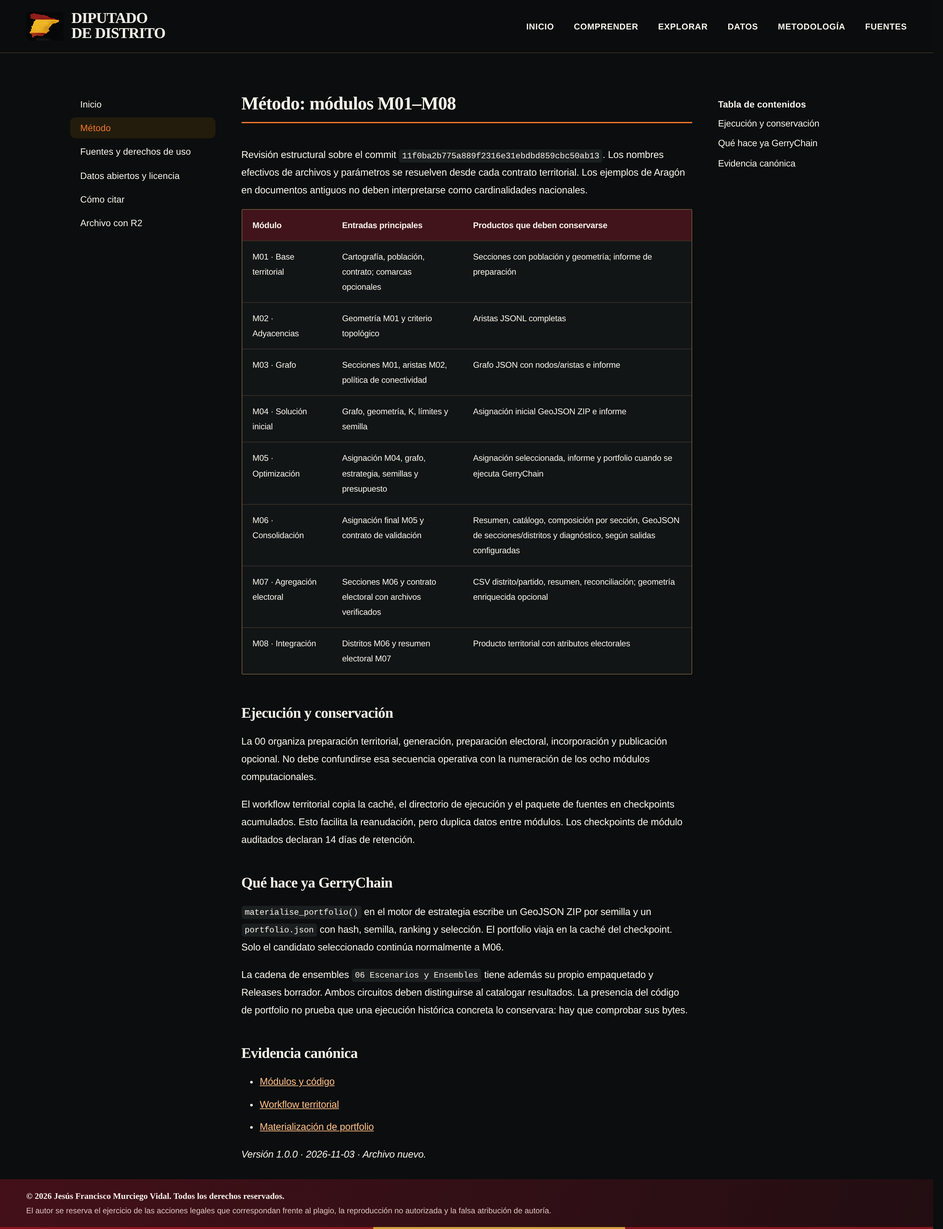
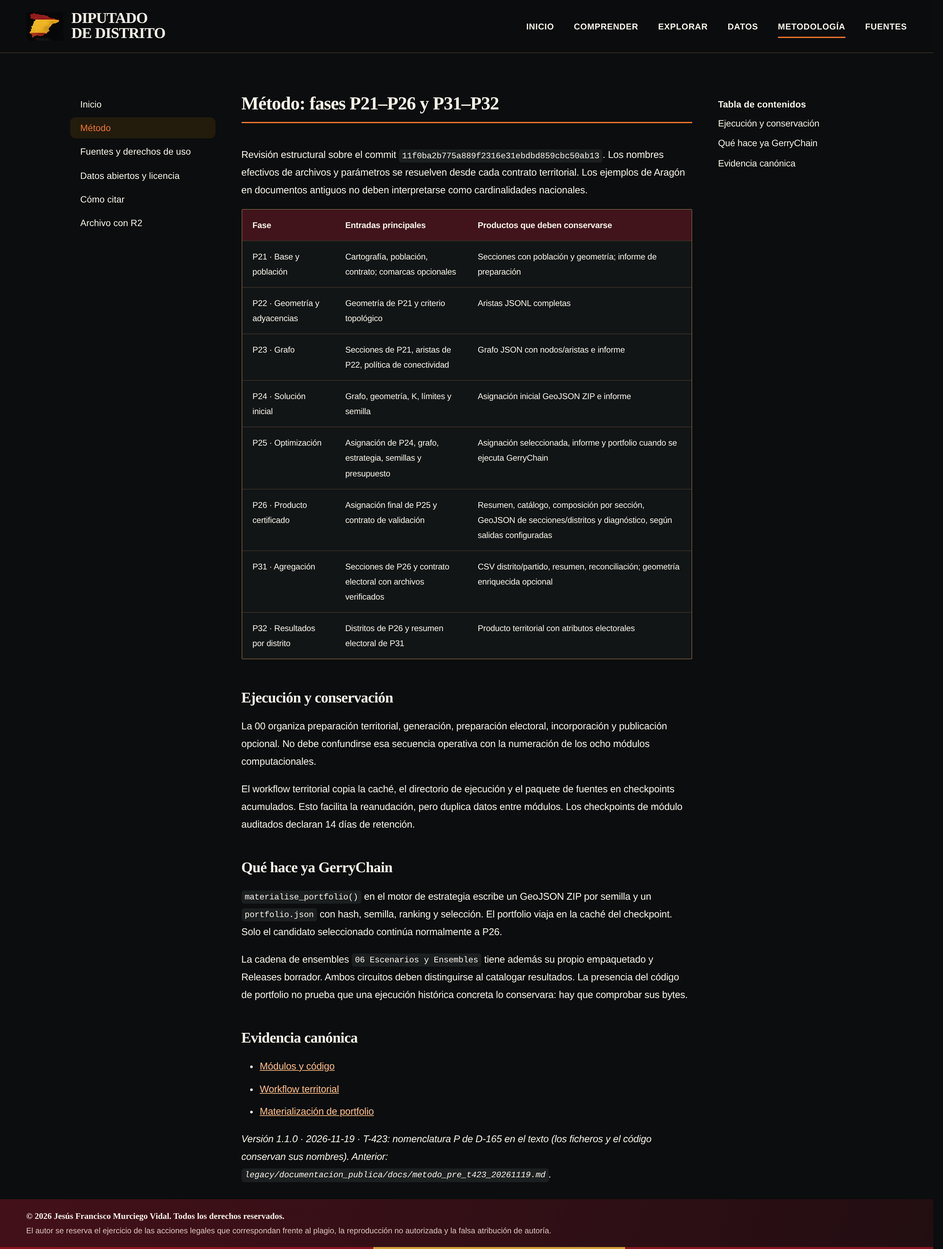
T-423: cabecera única en todas las páginas, nomenclatura P (D-165) en el texto visible, capturas nuevas
Claude-Session: https://claude.ai/code/session_01KQDtFsC2VMcbX4f4oMfUoC

diff --git a/visor/v4/mapa/explorar.js b/visor/v4/mapa/explorar.js
@@ -57,6 +57,9 @@
     return "OTROS";
   }
   const LOCALE_ES={"NavigationControl.ZoomIn":"Acercar","NavigationControl.ZoomOut":"Alejar","NavigationControl.ResetBearing":"Orientar al norte"};
+  // T-423 (D-165): el texto visible usa la nomenclatura P; los ids de datos (M06, M08…) no cambian (T-313).
+  const NOMBRE_P={M01:"P21",M02:"P22",M03:"P23",M04:"P24",M05:"P25",M06:"P26",M07:"P31",M08:"P32"};
+  function textoP(t){return String(t??"").replace(/\bM0([1-8])\b/g,m=>NOMBRE_P[m]);}
   function esc(s){return String(s??"").replace(/&/g,"&amp;").replace(/</g,"&lt;").replace(/>/g,"&gt;").replace(/"/g,"&quot;").replace(/'/g,"&#39;");}
   function color(n){return PALETA[family(n)]||PALETA.OTROS;}
   function randomNeutral(n){const pal=["#91aabb","#a5bcc8","#b5c8d0","#9baac2","#c2d0da","#afbeca","#8eabb7"];let h=0;for(const ch of String(n))h=(h*31+ch.charCodeAt(0))>>>0;return pal[h%pal.length];}
@@ -186,9 +189,9 @@
     if(S.scope==="nacional"&&!validElection()&&S.view==="electoral")
       return "Elección histórica elegida. La serie existe en el repositorio, pero no está materializada aquí como capa electoral de sección/distrito V3. No se reutilizan los colores de 2023.";
     if(S.scope==="autonomico"&&S.view==="electoral"&&!S.region)
-      return "Selecciona una comunidad para consultar sus productos M08 publicados; no se mezclan resultados de parlamentos distintos.";
+      return "Selecciona una comunidad para consultar sus resultados por distrito publicados (P32); no se mezclan resultados de parlamentos distintos.";
     if(S.scope==="autonomico"&&S.view==="electoral"&&S.region)
-      return "Los productos M08 autonómicos no acreditan en este visor la identidad de la elección seleccionada: la cartografía se muestra neutra hasta disponer de esa correspondencia.";
+      return "Los resultados por distrito autonómicos (P32) no acreditan en este visor la identidad de la elección seleccionada: la cartografía se muestra neutra hasta disponer de esa correspondencia.";
     return "";
   }
   function provinceFeatures(){return D.prov?.features||[];}
@@ -373,7 +376,7 @@
     installSource("distritos",districts);
     installSource("secciones",sections);
     document.body.dataset.distritos=String(districts.features.length);document.body.dataset.secciones=String(sections.features.length);
-    if(product)$("source-label").textContent=(product.label||"Producto M06/M08")+
+    if(product)$("source-label").textContent=textoP(product.label||"Producto certificado P26 / resultados P32")+
       " · "+(product.certification_status||"sin certificación")+
       " · ejecución "+product.run_id;
     paint();renderDetail();
@@ -427,7 +430,7 @@
       (!showS||S.system==="mayoritario");
     rows(partyVisible);
     if(S.layer==="poblacion"||S.layer==="desviacion"){
-      legend("<h3>"+(S.layer==="poblacion"?"Población":"Desviación de población")+"</h3><div style='height:12px;background:linear-gradient(90deg,#dcebdc,#f3cb84,#b64c53);border-radius:6px'></div><small>Capa basada en población M06, donde está publicada; no representa partidos.</small>");
+      legend("<h3>"+(S.layer==="poblacion"?"Población":"Desviación de población")+"</h3><div style='height:12px;background:linear-gradient(90deg,#dcebdc,#f3cb84,#b64c53);border-radius:6px'></div><small>Capa basada en la población del producto certificado (P26), donde está publicada; no representa partidos.</small>");
     }
     if(dvActiva()){
       const c=bloques();
@@ -494,7 +497,7 @@
       parties.map(p=>"<tr><td><i style='background:"+PALETA[p]+"'></i>"+esc(p)+"</td><td>"+
         fmt(official[p]||0)+"</td><td><strong>"+fmt(proposed[p]||0)+"</strong></td></tr>").join("")+
       "<tr class='total'><td>Total</td><td>"+fmt(actual)+"</td><td>"+fmt(ddd)+"</td></tr></tbody></table>"+
-      "<p class='small-note'>DDD: un escaño para el partido más votado en cada distrito M08. No es el reparto proporcional oficial.</p>";
+      "<p class='small-note'>DDD: un escaño para el partido más votado en cada distrito (resultados P32). No es el reparto proporcional oficial.</p>";
   }
   function provenanceHtml(kind,obj){
     const aviso=t=>"<p class='small-note'>"+esc(t)+"</p>";
@@ -565,7 +568,7 @@
     }else records.push(["Ámbito",S.scope==="nacional"?"Congreso":"Parlamentos autonómicos"],["Sistema",S.system==="mayoritario"?"Mayoritario DDD":"Proporcional actual"],["Vista",S.view]);
     $("context").innerHTML="<dl>"+records.map(([a,b])=>"<div><dt>"+esc(a)+"</dt><dd>"+esc(b)+"</dd></div>").join("")+"</dl>";
     const source=kind==="seccion"?"INE · seccionado 2025 / composición DDD (no resultado de mesa)":
-      kind==="distrito"?"M06 publicado; resultado M08 solo para elección acreditada · "+(obj.run_id||"sin identidad de producto"):
+      kind==="distrito"?"Producto certificado P26 publicado; resultado P32 solo para elección acreditada · "+(obj.run_id||"sin identidad de producto"):
       kind==="provincia"?(validElection()?"Resultados oficiales generales 2023 / catálogo DDD":"Cartografía DDD · capa electoral histórica no disponible"):
         "Productos del registro durable de DDD";
     $("source-label").textContent=source;
@@ -578,7 +581,7 @@
       if(data){const entries=Object.entries(data).sort((a,b)=>b[1]-a[1]);const max=Math.max(1,...entries.map(x=>x[1]));
         content=entries.map(([p,n])=>"<div class='party-row'><b>"+esc(p)+"</b><div class='track'><b style='width:"+(n/max*100)+"%;background:"+color(p)+"'></b></div><strong>"+fmt(n)+"</strong></div>").join("")+
           "<p class='small-note'>Escaños oficiales de esta provincia en el Congreso de 2023.</p>";}
-      else content=winner?"<p>Ganador acreditado M08: <b style='color:"+color(winner)+"'>"+esc(winner)+"</b></p>":
+      else content=winner?"<p>Ganador acreditado (P32): <b style='color:"+color(winner)+"'>"+esc(winner)+"</b></p>":
           "<p class='small-note'>No existe aquí un desglose electoral detallado acreditado para esta selección y fecha.</p>";
     }
     if(S.panel==="comparar")content=compareModels();
@@ -626,7 +629,7 @@
       S.level="comunidad";$("level").value=S.level;
     }
     $("tools-note").textContent=auto?
-      "Ámbito autonómico: distritos M06 publicados; las capas autonómicas de municipios y secciones censales aún no están materializadas. No se sustituyen por secciones del Congreso.":
+      "Ámbito autonómico: distritos certificados (P26) publicados; las capas autonómicas de municipios y secciones censales aún no están materializadas. No se sustituyen por secciones del Congreso.":
       "Las secciones censales disponibles conservan la geometría INE; su color electoral se hereda del ganador de su distrito DDD.";
   }
   function refresh(){

diff --git a/visor/v4/auditoria-registro.html b/visor/v4/auditoria-registro.html
@@ -1,6 +1,11 @@
 <!DOCTYPE html><html lang="es"><head><meta charset="utf-8"><meta name="viewport" content="width=device-width,initial-scale=1"><title>Auditoría y registro | Diputado de Distrito</title><link rel="stylesheet" href="styles.css"><script src="catalogo-mapas.js" defer></script><script src="app.js" defer></script><meta name="theme-color" content="#0b0d0e"><noscript><style>.menu-toggle{display:none}</style></noscript></head><body>
 <a class="skip-link" href="#contenido">Saltar al contenido</a>
-<header class="site-header"><div class="wrap header-inner"><a class="brand" href="index.html" aria-label="Volver a la portada"><img src="assets/logotipo_espana.webp" alt="" width="59" height="47"><span>DIPUTADO<br>DE DISTRITO</span></a><button class="menu-toggle" type="button" data-menu aria-expanded="false" aria-controls="main-nav">Menú</button><nav class="main-nav" data-nav id="main-nav" aria-label="Navegación principal"><a href="index.html">Inicio</a><a href="comprender.html">Comprender</a><a href="mapa/">Explorar</a><a href="index.html#investigacion">Investigación</a><a class="nav-audit" href="auditoria-registro.html" aria-current="page">Auditoría y registro</a></nav></div></header>
+<header class="site-header v4-header"><div class="wrap header-inner">
+<a class="brand" href="index.html" aria-label="Diputado de Distrito, inicio"><img src="assets/logotipo_espana.webp" alt="" width="59" height="47"><span>DIPUTADO<br>DE DISTRITO</span></a>
+<button class="menu-toggle" type="button" data-menu aria-expanded="false" aria-controls="main-nav">Menú</button>
+<nav class="main-nav" id="main-nav" data-nav aria-label="Navegación principal">
+<a href="index.html">Inicio</a><a href="comprender.html">Comprender</a><a href="mapa/">Explorar</a><a href="../docs/datos-abiertos.html">Datos</a><a href="../docs/metodo.html">Metodología</a><a href="../docs/fuentes.html">Fuentes</a>
+</nav></div></header>
 <main id="contenido" tabindex="-1"><section class="detail-hero"><div class="wrap"><div class="kicker">Publicaciones · Procedencia · Derechos</div><h1>Auditoría y registro</h1><p>Cada mapa tiene su propia ficha de publicación. Consulta su DOI, la versión documentada y la información de autoría.</p></div></section>
 <div class="wrap detail-content"><section class="detail-panel" aria-labelledby="doi-title"><header><h2 id="doi-title">DOI de cada mapa</h2></header><div class="contents"><p>El DOI corresponde a cada mapa y a la publicación que documenta su versión. Cada ficha reúne su ámbito territorial, fecha y procedencia.</p><label class="catalog-label" for="search-map">Buscar mapa registrado</label><input class="catalog-search" id="search-map" data-doi-search type="search" placeholder="Mapa, provincia o comunidad autónoma"><div data-doi-list aria-live="polite"><p class="empty">Todavía no hay fichas de mapas incorporadas a este catálogo.</p></div><div class="provenance" id="procedencia"><h3>Procedencia de los recursos</h3><p>Las imágenes de portada son ilustraciones generadas elegidas para la identidad visual del proyecto. El mapa de la cabecera es decorativo; la cartografía y los datos se consultan en el visor.</p><a class="page-action" href="mapa/">Consultar el visor</a></div></div></section>
 <aside class="detail-panel" id="sobre-autor"><header><h2>Sobre el autor</h2></header><div class="contents"><h3 class="author-name">Jesús Francisco Murciego Vidal</h3><a class="person-link" href="https://orcid.org/0009-0002-4434-959X" target="_blank" rel="noopener noreferrer"><span>ORCID</span><small>0009-0002-4434-959X</small></a><a class="person-link" href="https://www.linkedin.com/in/jesusmurciego/" target="_blank" rel="noopener noreferrer"><span>LinkedIn</span><small>linkedin.com/in/jesusmurciego/</small></a><div id="juridica" class="legal-content"><h2>Protección jurídica</h2><p><strong>© 2026 Jesús Francisco Murciego Vidal. Todos los derechos reservados.</strong></p><p>El autor se reserva el ejercicio de las acciones legales que correspondan frente al plagio, la reproducción no autorizada y la falsa atribución de autoría.</p><p class="notice">Esta reserva se refiere a los contenidos originales sobre los que el autor ostente derechos. Los recursos de terceros mantienen sus licencias. El DOI identifica una publicación y el ORCID identifica al investigador; ninguno acredita por sí solo la titularidad de todos los materiales.</p></div></div></aside></div></main>

diff --git a/visor/v4/mapa/index.html b/visor/v4/mapa/index.html
@@ -17,12 +17,12 @@
 <body>
 <a class="skip skip-link" href="#contenido">Saltar al mapa y a los resultados</a>
 <div id="sr-status" class="sr-only" role="status" aria-live="polite" aria-atomic="true"></div>
-<header class="site-header"><div class="wrap header-inner">
+<header class="site-header v4-header"><div class="wrap header-inner">
 <a class="brand" href="../index.html" aria-label="Diputado de Distrito, inicio"><img src="../assets/logotipo_espana.webp" alt="" width="59" height="47"><span>DIPUTADO<br>DE DISTRITO</span></a>
 <button class="menu-toggle" type="button" data-menu aria-expanded="false" aria-controls="main-nav">Menú</button>
 <nav class="main-nav" id="main-nav" data-nav aria-label="Navegación principal">
-<a href="../index.html">Inicio</a><a href="../comprender.html">Comprender</a><a href="./" aria-current="page">Explorar</a><a href="../../docs/datos-abiertos.html">Datos</a><a href="../../docs/metodo.html">Metodología</a><a href="../../docs/fuentes.html">Fuentes</a>
-</nav><button class="icon-button" id="help" aria-label="Ayuda: cómo explorar el visor" aria-haspopup="dialog">?</button></div></header>
+<a href="../index.html">Inicio</a><a href="../comprender.html">Comprender</a><a href="../mapa/" aria-current="page">Explorar</a><a href="../../docs/datos-abiertos.html">Datos</a><a href="../../docs/metodo.html">Metodología</a><a href="../../docs/fuentes.html">Fuentes</a>
+</nav></div></header>
 <div class="app">
   <nav class="modes" aria-label="Modalidad de análisis">
     <button data-panel="territorio" aria-pressed="true"><span aria-hidden="true">⌖</span> <span>Territorio</span></button>
@@ -51,7 +51,7 @@
       <div id="map" role="application" aria-roledescription="mapa" aria-label="Mapa interactivo de territorios y resultados electorales de España" aria-describedby="map-help"></div>
       <p id="map-help" class="sr-only">Con el foco en el mapa, las flechas lo desplazan y más o menos lo acercan o alejan. Para elegir un territorio con teclado, usa el buscador o la tabla «Resultados en tabla» de la columna derecha.</p>
       <div class="map-tag"><span class="status-dot" aria-hidden="true"></span><span id="map-caption">Resultados oficiales 2023 · vista provincial</span></div>
-      <div class="map-actions" role="group" aria-label="Encuadre del mapa"><button id="reset-map" title="Volver a España" aria-label="Volver a España"><span aria-hidden="true">⌖</span></button><button id="peninsula" title="Península" aria-label="Ir a la Península"><span aria-hidden="true">P</span></button><button id="canarias" title="Canarias" aria-label="Ir a Canarias"><span aria-hidden="true">C</span></button></div>
+      <div class="map-actions" role="group" aria-label="Encuadre del mapa"><button class="icon-button" id="help" aria-label="Ayuda: cómo explorar el visor" aria-haspopup="dialog" title="Ayuda"><span aria-hidden="true">?</span></button><button id="reset-map" title="Volver a España" aria-label="Volver a España"><span aria-hidden="true">⌖</span></button><button id="peninsula" title="Península" aria-label="Ir a la Península"><span aria-hidden="true">P</span></button><button id="canarias" title="Canarias" aria-label="Ir a Canarias"><span aria-hidden="true">C</span></button></div>
       <p id="dv-aviso" class="dv-aviso"><strong>Simulación sin valor oficial.</strong><span> Escenarios de doble vuelta calculados con los votos reales de las generales de 2023; no sustituyen a los resultados oficiales.</span></p>
       <div id="map-notice" class="map-notice" role="status"></div>
       <div id="legend" class="legend" role="group" aria-label="Leyenda del mapa"></div>

diff --git a/visor/v4/comprender.html b/visor/v4/comprender.html
@@ -1,6 +1,11 @@
 <!DOCTYPE html><html lang="es" data-theme="dark"><head><meta charset="utf-8"><meta name="viewport" content="width=device-width,initial-scale=1"><title>Comprender | Diputado de Distrito</title><link rel="stylesheet" href="styles.css"><link rel="stylesheet" href="tokens-bloques.css"><script src="app.js" defer></script><meta name="theme-color" content="#0b0d0e"><noscript><style>.menu-toggle{display:none}</style></noscript></head><body>
 <a class="skip-link" href="#contenido">Saltar al contenido</a>
-<header class="site-header"><div class="wrap header-inner"><a class="brand" href="index.html"><img src="assets/logotipo_espana.webp" alt="" width="59" height="47"><span>DIPUTADO<br>DE DISTRITO</span></a><button class="menu-toggle" type="button" data-menu aria-expanded="false" aria-controls="main-nav">Menú</button><nav class="main-nav" data-nav id="main-nav" aria-label="Navegación principal"><a href="index.html">Inicio</a><a href="comprender.html" aria-current="page">Comprender</a><a href="mapa/">Explorar</a><a href="../docs/datos-abiertos.html">Datos</a><a href="../docs/metodo.html">Metodología</a><a href="../docs/fuentes.html">Fuentes</a></nav></div></header>
+<header class="site-header v4-header"><div class="wrap header-inner">
+<a class="brand" href="index.html" aria-label="Diputado de Distrito, inicio"><img src="assets/logotipo_espana.webp" alt="" width="59" height="47"><span>DIPUTADO<br>DE DISTRITO</span></a>
+<button class="menu-toggle" type="button" data-menu aria-expanded="false" aria-controls="main-nav">Menú</button>
+<nav class="main-nav" id="main-nav" data-nav aria-label="Navegación principal">
+<a href="index.html">Inicio</a><a href="comprender.html" aria-current="page">Comprender</a><a href="mapa/">Explorar</a><a href="../docs/datos-abiertos.html">Datos</a><a href="../docs/metodo.html">Metodología</a><a href="../docs/fuentes.html">Fuentes</a>
+</nav></div></header>
 <main id="contenido" tabindex="-1"><section class="detail-hero"><div class="wrap"><div class="kicker">Sistema representativo · Contexto del proyecto</div><h1>Comprender</h1><p>El proyecto plantea una representación vinculada al territorio. Esta página introduce sus conceptos y da acceso a los mapas y a sus publicaciones.</p></div></section><div class="wrap detail-content"><section class="detail-panel"><header><h2>Sistema y distritos</h2></header><div class="contents"><p>La circunscripción delimita el territorio al que se atribuyen escaños. Un mapa electoral permite explorar criterios de delimitación, población, relación entre territorio y representación, y resultados agregados.</p><p>La propuesta Diputado de Distrito plantea una estructura de representación territorial que debe distinguirse de los resultados de elecciones celebradas bajo el sistema vigente.</p><p><a class="page-action" href="mapa/">Abrir el visor interactivo</a></p></div></section><aside class="detail-panel"><header><h2>Publicaciones y datos</h2></header><div class="contents"><p>La investigación se documentará con metodología, fuentes, versiones y registro individual de cada mapa.</p></div></aside></div><section class="doble-vuelta" id="doble-vuelta" aria-labelledby="dv-titulo">
 <div class="wrap">
 <h2 id="dv-titulo">La doble vuelta</h2>

diff --git a/visor/v4/cabecera.html b/visor/v4/cabecera.html
@@ -1,0 +1,9 @@
+<!-- Cabecera única de la V4 (T-423): todas las páginas (portada, Comprender, Explorar, Datos, Metodología, Fuentes y las internas)
+     la copian tal cual con {V4} = ruta a visor/v4/ y {DOCS} = ruta a las páginas de documentación; solo cambia aria-current.
+     tests/test_visor_v4_base.py compara cada página con esta plantilla. -->
+<header class="site-header v4-header"><div class="wrap header-inner">
+<a class="brand" href="{V4}index.html" aria-label="Diputado de Distrito, inicio"><img src="{V4}assets/logotipo_espana.webp" alt="" width="59" height="47"><span>DIPUTADO<br>DE DISTRITO</span></a>
+<button class="menu-toggle" type="button" data-menu aria-expanded="false" aria-controls="main-nav">Menú</button>
+<nav class="main-nav" id="main-nav" data-nav aria-label="Navegación principal">
+<a href="{V4}index.html">Inicio</a><a href="{V4}comprender.html">Comprender</a><a href="{V4}mapa/">Explorar</a><a href="{DOCS}datos-abiertos.html">Datos</a><a href="{DOCS}metodo.html">Metodología</a><a href="{DOCS}fuentes.html">Fuentes</a>
+</nav></div></header>

diff --git a/visor/v4/index.html b/visor/v4/index.html
@@ -8,7 +8,7 @@
 <meta name="theme-color" content="#0b0d0e"><noscript><style>.menu-toggle{display:none}</style></noscript></head>
 <body>
 <a class="skip-link" href="#contenido">Saltar al contenido</a>
-<header class="site-header"><div class="wrap header-inner">
+<header class="site-header v4-header"><div class="wrap header-inner">
 <a class="brand" href="index.html" aria-label="Diputado de Distrito, inicio"><img src="assets/logotipo_espana.webp" alt="" width="59" height="47"><span>DIPUTADO<br>DE DISTRITO</span></a>
 <button class="menu-toggle" type="button" data-menu aria-expanded="false" aria-controls="main-nav">Menú</button>
 <nav class="main-nav" id="main-nav" data-nav aria-label="Navegación principal">

diff --git a/tests/test_visor_v4_base.py b/tests/test_visor_v4_base.py
@@ -55,6 +55,42 @@ class PortadaV4(unittest.TestCase):
             self.assertNotIn("diputadodedistrito.es", h, pag)
         self.assertIn('href="mapa/"', _txt("index.html"))
 
+    def test_cabecera_identica_en_todas_las_paginas(self):
+        # T-423: una sola plantilla (visor/v4/cabecera.html); cada página la copia con sus rutas; solo cambia aria-current
+        plantilla = _txt("cabecera.html").split("-->\n", 1)[1].strip()
+        self.assertEqual(plantilla.count("<a "), 7)  # marca + 6 del menú; sin botones a la derecha en ninguna página
+        quitar = lambda h: re.sub(r'\{% if actual == "[^"]+" %\}|\{% endif %\}| aria-current="page"', "", h)
+        paginas = {"index.html": ("", "../docs/"), "comprender.html": ("", "../docs/"), "auditoria-registro.html": ("", "../docs/"),
+                   "mapa/index.html": ("../", "../../docs/")}
+        for pag, (v4, docs) in paginas.items():
+            h = re.search(r'<header class="site-header[^"]*">.*?</header>', _txt(pag), re.S).group(0)
+            self.assertEqual(quitar(h), plantilla.replace("{V4}", v4).replace("{DOCS}", docs), pag)
+        zens = (DOCS.parent / "overrides/main.html").read_text(encoding="utf-8")
+        h = re.search(r'<header class="site-header[^"]*">.*?</header>', zens, re.S).group(0)
+        self.assertEqual(quitar(h), plantilla.replace("{V4}", "../v4/").replace("{DOCS}", ""), "Datos/Metodología/Fuentes")
+        self.assertIn("cabecera.html", _txt("NO_PUBLICAR.txt").split())  # la plantilla no se publica
+
+    def test_sin_nomenclatura_m_en_texto_visible(self):
+        # T-423 (D-165): ningún «M01…M08» en lo que se lee; los ids de datos («M06» como clave exacta) y los ficheros no cuentan (T-313)
+        m0 = re.compile(r"\bM0[1-8]\b")
+        def html(t):
+            t = re.sub(r"<!--.*?-->|<script\b.*?</script>|<style\b.*?</style>", " ", t, flags=re.S)
+            return re.sub(r"<[^>]+>", " ", t) + " ".join(re.findall(r'(?:aria-label|title|alt|placeholder)="([^"]*)"', t))
+        def js(t):
+            t = re.sub(r"/\*.*?\*/|(?<![:\\])//[^\n]*", " ", t, flags=re.S)
+            lits = re.findall(r'"((?:[^"\\\n]|\\.)*)"|\'((?:[^\'\\\n]|\\.)*)\'', t)
+            return " ".join(a or b for a, b in lits if not re.fullmatch(r"M0[1-8]", a or b))
+        def md(t):
+            return re.sub(r"```.*?```|`[^`]*`|\]\([^)]*\)|https?://\S+", " ", t, flags=re.S)
+        textos = {f: html(_txt(f)) for f in ("index.html", "comprender.html", "mapa/index.html")}
+        textos.update({f: js(_txt(f)) for f in ("app.js", "mapa/explorar.js", "mapa/dv.js")})
+        textos.update({d.name: md(d.read_text(encoding="utf-8")) for d in sorted(DOCS.glob("*.md"))})
+        textos["overrides/main.html"] = html((DOCS.parent / "overrides/main.html").read_text(encoding="utf-8"))
+        self.assertIn("metodo.md", textos)  # guardia: Metodología entra
+        for f, t in textos.items():
+            self.assertIsNone(m0.search(t), f"{f}: {m0.findall(t)[:5]}")
+        self.assertIsNotNone(m0.search(js('const a="M06 publicado";')))  # guardia: el extractor sí ve literales con texto
+
     def test_menu_unico_e_investigacion(self):
         # T-423: un solo menú en portada, Comprender y Explorar; «Investigación» enlaza Datos, Metodología y Fuentes
         menu = ["Inicio", "Comprender", "Explorar", "Datos", "Metodología", "Fuentes"]

diff --git a/docs/registro/2026-11-19_t423-v4-v3-completa.md b/docs/registro/2026-11-19_t423-v4-v3-completa.md
@@ -1,6 +1,6 @@
 ## 2026-11-19 — T-423 — V4: portada + Explorar con la V3 completa y la doble vuelta como capa electoral
 
 **Causa.** Error de planificación: `visor/v4/mapa/` era un mapa simple en SVG, de un territorio cada vez, sin vista nacional ni secciones. El propietario: «era solo añadir una portada y mantener el resto de V3 enriqueciéndolo con la doble vuelta como capa electoral»; después, todo dentro del diseño de la V4 con un solo menú (Planificador, 19-11).
-**Cambio.** `visor/v4/mapa/` = copia íntegra de la V3 (`explorar.js`/`explorar.css`/`index.html`/`calendario.json`: MapLibre, vista nacional, comunidad, provincia, distrito, municipio y sección censal, calendario, paletas, paneles, procedencia, galería y tabla), rutas a `../../`, con cabecera, menú único (Inicio · Comprender · Explorar · Datos · Metodología · Fuentes), paleta y pie de la V4. Capa electoral nueva «Doble vuelta» (por defecto, D-172): «Tres bloques» (dv_A), «Dos bloques» (dv_B), «Sin coaliciones» (dv_base) y «Más votado» (primero); color por bloque (claro si la ventaja < 5 puntos), sección con el bloque de su distrito, ficha con 1.ª y 2.ª vuelta, transferencias y comparación entre reglas, aviso fijo «Simulación sin valor oficial». Lee `v4/mapa/datos/` (P40, `herramientas/publicar_doble_vuelta.py`, #927/#937) y verifica el sha256 de cada CSV; si no casa, ese territorio queda sin color (fallo cerrado). El mapa simple pasa a `legacy/visor/v4/mapa_simple_t413_20261119/`. Portada y Comprender: menú único; «Investigación» enlaza Datos, Metodología y Fuentes. Documentación pública (Zensical 1.2.0): tema V4 (`docs/estilos/v4.css`) y cabecera, menú y pie de la V4 (`overrides/main.html`). `visor/v3/` no cambia; no toca workflows ni datos. Preview en `docs/ESTUDIOS/T423_V4/preview/` (datos de doble vuelta ficticios).
-**Pruebas.** `tests/test_visor_v4_mapa.py` 2.0.0: la V4 tiene todas las capas, niveles (incluida la sección), controles, capas MapLibre, funciones y fuentes de la V3; la V3 coincide byte a byte con `main` (sha256 literales); el mapa simple ya no está. `tests/test_visor_v4_explorar.js` (navegador simulado con los 52 nac reales de `datos_abiertos/INDEX.json`): capa DV en los 52, cuatro reglas, ficha, sección, cambio de capa y de elección y huella mala. `test_visor_v4_base` (menú único e «Investigación»); ajustes de rutas en `test_t419_publicar_doble_vuelta` y exención en `test_t220_renombrado` (la copia de la V3 conserva sus ids públicos, como la V3). `zensical build --strict` y auditoría de la documentación en verde.
+**Cambio.** `visor/v4/mapa/` = copia íntegra de la V3 (`explorar.js`/`explorar.css`/`index.html`/`calendario.json`: MapLibre, vista nacional, comunidad, provincia, distrito, municipio y sección censal, calendario, paletas, paneles, procedencia, galería y tabla), rutas a `../../`, con cabecera, menú único (Inicio · Comprender · Explorar · Datos · Metodología · Fuentes), paleta y pie de la V4. Capa electoral nueva «Doble vuelta» (por defecto, D-172): «Tres bloques» (dv_A), «Dos bloques» (dv_B), «Sin coaliciones» (dv_base) y «Más votado» (primero); color por bloque (claro si la ventaja < 5 puntos), sección con el bloque de su distrito, ficha con 1.ª y 2.ª vuelta, transferencias y comparación entre reglas, aviso fijo «Simulación sin valor oficial». Lee `v4/mapa/datos/` (P40, `herramientas/publicar_doble_vuelta.py`, #927/#937) y verifica el sha256 de cada CSV; si no casa, ese territorio queda sin color (fallo cerrado). El mapa simple pasa a `legacy/visor/v4/mapa_simple_t413_20261119/`. Portada y Comprender: menú único; «Investigación» enlaza Datos, Metodología y Fuentes. Documentación pública (Zensical 1.2.0): tema V4 (`docs/estilos/v4.css`) y cabecera, menú y pie de la V4 (`overrides/main.html`). Cabecera única (`visor/v4/cabecera.html`, no se publica): todas las páginas de la V4 y de la documentación la copian igual (sin botones a la derecha; la ayuda de Explorar pasa a la barra del mapa). Texto visible con la nomenclatura P de D-165 (P21–P26, P31, P32) en Explorar y en Metodología, Datos y Archivo; ids de datos y ficheros intactos (T-313). `visor/v3/` no cambia; no toca workflows ni datos. Preview en `docs/ESTUDIOS/T423_V4/preview/` (datos de doble vuelta ficticios).
+**Pruebas.** `tests/test_visor_v4_mapa.py` 2.0.0: la V4 tiene todas las capas, niveles (incluida la sección), controles, capas MapLibre, funciones y fuentes de la V3; la V3 coincide byte a byte con `main` (sha256 literales); el mapa simple ya no está. `tests/test_visor_v4_explorar.js` (navegador simulado con los 52 nac reales de `datos_abiertos/INDEX.json`): capa DV en los 52, cuatro reglas, ficha, sección, cambio de capa y de elección y huella mala. `test_visor_v4_base` (menú único, «Investigación», cabecera idéntica a la plantilla en todas las páginas y ningún `M01…M08` en el texto visible de la V4 ni de la documentación); ajustes de rutas en `test_t419_publicar_doble_vuelta` y exención en `test_t220_renombrado` (la copia de la V3 conserva sus ids públicos, como la V3). `zensical build --strict` y auditoría de la documentación en verde.
 **Riesgos.** La capa DV necesita `configuracion/doble_vuelta_publicada.json` y el paso de P40; sin él, Explorar avisa y sigue funcionando como la V3. Son 104 CSV más en la vista nacional (carga perezosa, 6 en paralelo). La documentación de `/docs/` cambia de aspecto también para quien llega desde la V3. PR `no-automerge`; sin lanzar ni publicar.

diff --git a/documentacion_publica/docs/metodo.md b/documentacion_publica/docs/metodo.md
@@ -1,17 +1,17 @@
-# Método: módulos M01–M08
+# Método: fases P21–P26 y P31–P32
 
 Revisión estructural sobre el commit `11f0ba2b775a889f2316e31ebdbd859cbc50ab13`. Los nombres efectivos de archivos y parámetros se resuelven desde cada contrato territorial. Los ejemplos de Aragón en documentos antiguos no deben interpretarse como cardinalidades nacionales.
 
-| Módulo | Entradas principales | Productos que deben conservarse |
+| Fase | Entradas principales | Productos que deben conservarse |
 |---|---|---|
-| M01 · Base territorial | Cartografía, población, contrato; comarcas opcionales | Secciones con población y geometría; informe de preparación |
-| M02 · Adyacencias | Geometría M01 y criterio topológico | Aristas JSONL completas |
-| M03 · Grafo | Secciones M01, aristas M02, política de conectividad | Grafo JSON con nodos/aristas e informe |
-| M04 · Solución inicial | Grafo, geometría, K, límites y semilla | Asignación inicial GeoJSON ZIP e informe |
-| M05 · Optimización | Asignación M04, grafo, estrategia, semillas y presupuesto | Asignación seleccionada, informe y portfolio cuando se ejecuta GerryChain |
-| M06 · Consolidación | Asignación final M05 y contrato de validación | Resumen, catálogo, composición por sección, GeoJSON de secciones/distritos y diagnóstico, según salidas configuradas |
-| M07 · Agregación electoral | Secciones M06 y contrato electoral con archivos verificados | CSV distrito/partido, resumen, reconciliación; geometría enriquecida opcional |
-| M08 · Integración | Distritos M06 y resumen electoral M07 | Producto territorial con atributos electorales |
+| P21 · Base y población | Cartografía, población, contrato; comarcas opcionales | Secciones con población y geometría; informe de preparación |
+| P22 · Geometría y adyacencias | Geometría de P21 y criterio topológico | Aristas JSONL completas |
+| P23 · Grafo | Secciones de P21, aristas de P22, política de conectividad | Grafo JSON con nodos/aristas e informe |
+| P24 · Solución inicial | Grafo, geometría, K, límites y semilla | Asignación inicial GeoJSON ZIP e informe |
+| P25 · Optimización | Asignación de P24, grafo, estrategia, semillas y presupuesto | Asignación seleccionada, informe y portfolio cuando se ejecuta GerryChain |
+| P26 · Producto certificado | Asignación final de P25 y contrato de validación | Resumen, catálogo, composición por sección, GeoJSON de secciones/distritos y diagnóstico, según salidas configuradas |
+| P31 · Agregación | Secciones de P26 y contrato electoral con archivos verificados | CSV distrito/partido, resumen, reconciliación; geometría enriquecida opcional |
+| P32 · Resultados por distrito | Distritos de P26 y resumen electoral de P31 | Producto territorial con atributos electorales |
 
 ## Ejecución y conservación
 
@@ -21,7 +21,7 @@ El workflow territorial copia la caché, el directorio de ejecución y el paquet
 
 ## Qué hace ya GerryChain
 
-`materialise_portfolio()` en el motor de estrategia escribe un GeoJSON ZIP por semilla y un `portfolio.json` con hash, semilla, ranking y selección. El portfolio viaja en la caché del checkpoint. Solo el candidato seleccionado continúa normalmente a M06.
+`materialise_portfolio()` en el motor de estrategia escribe un GeoJSON ZIP por semilla y un `portfolio.json` con hash, semilla, ranking y selección. El portfolio viaja en la caché del checkpoint. Solo el candidato seleccionado continúa normalmente a P26.
 
 La cadena de ensembles `06 Escenarios y Ensembles` tiene además su propio empaquetado y Releases borrador. Ambos circuitos deben distinguirse al catalogar resultados. La presencia del código de portfolio no prueba que una ejecución histórica concreta lo conservara: hay que comprobar sus bytes.
 
@@ -31,4 +31,4 @@ La cadena de ensembles `06 Escenarios y Ensembles` tiene además su propio empaq
 - [Workflow territorial](https://github.com/jfmurciego/DiputadodeDistrito/blob/11f0ba2b775a889f2316e31ebdbd859cbc50ab13/.github/workflows/_reutilizable-generacion-territorial.yml#L595)
 - [Materialización de portfolio](https://github.com/jfmurciego/DiputadodeDistrito/blob/11f0ba2b775a889f2316e31ebdbd859cbc50ab13/ddd_core/m05_gerrychain_strategy.py#L1021)
 
-*Versión 1.0.0 · 2026-11-03 · Archivo nuevo.*
+*Versión 1.1.0 · 2026-11-19 · T-423: nomenclatura P de D-165 en el texto (los ficheros y el código conservan sus nombres). Anterior: `legacy/documentacion_publica/docs/metodo_pre_t423_20261119.md`.*

diff --git a/legacy/documentacion_publica/docs/archivo-r2_pre_t423_20261119.md b/legacy/documentacion_publica/docs/archivo-r2_pre_t423_20261119.md
@@ -1,0 +1,44 @@
+# Archivo con Cloudflare R2
+
+**Estado: diseño de activación; cuenta, bucket e integración aún pendientes.** GitHub conserva el código y los metadatos; R2 conservaría los bytes pesados. Los archivos de documentación permanecen en Markdown y el portal publica enlaces al catálogo y a las descargas.
+
+## Primera instalación
+
+1. Acceder a una cuenta Cloudflare y activar R2, revisando la facturación mostrada por el proveedor.
+2. Crear un bucket privado, por ejemplo `ddd-archivo`, preferiblemente en jurisdicción UE si responde a los requisitos del proyecto. Confirmar disponibilidad y endpoint correspondiente; no deducirlo a partir de un endpoint global.
+3. Crear credenciales S3 limitadas al bucket de archivo y configurarlas en el entorno de CI. Separar escritor de archivo y lectura pública.
+4. Probar con un archivo pequeño conocido: subir, descargar, comparar bytes y SHA-256. Registrar el recibo de la prueba.
+5. Archivar el checkpoint piloto y verificarlo mediante descarga independiente antes de integrarlo en la 00.
+
+No se ha creado ningún recurso ni activado gasto durante esta revisión. No se han recibido ni utilizado credenciales R2.
+
+## Organización propuesta
+
+| Prefijo | Contenido |
+|---|---|
+| `objects/sha256/<hash>` | Bytes deduplicados identificados por SHA-256 |
+| `runs/<territorio>/<run>/<attempt>/manifest.json` | Identidad, fuentes, contratos y referencias a objetos |
+| `receipts/<territorio>/<run>/<attempt>/` | Confirmaciones de escritura y comprobación |
+| `published/` | Solo objetos cuya publicación y licencia hayan sido aprobadas |
+
+Una clave por hash evita sobrescrituras accidentales por nombre, pero no constituye por sí sola almacenamiento inmutable. Usar escrituras condicionales y una política de retención explícita. Los bucket locks de R2 impiden sobreescritura y borrado durante la retención configurada; sus reglas pueden administrarse, por lo que debe delimitarse quién puede cambiarlas. No habilitar retención indefinida de forma automática.
+
+## Contrato de archivado para la siguiente PR
+
+El archivador debe ser idempotente y recibir los productos existentes, sin regenerarlos. No alterar los estados científicos de M06/M08. Emitir un recibo con tamaño, hash, clave, fecha, intento, resultado de comprobación y ubicación. Si un mismo hash apunta a bytes incompatibles, abortar.
+
+La puerta de conservación del archivo debe fallar si falta cualquier objeto obligatorio o no se ha verificado. Eso no debe reescribir un manifiesto histórico ni convertir una validación fallida en correcta. Los lectores del motor seguirán usando el circuito actual hasta incorporar y probar un adaptador de recuperación.
+
+## Coste orientativo
+
+En la tarifa Standard consultada: 10 GB-mes incluidos; almacenamiento adicional a 0,015 USD/GB-mes, más operaciones. Con los aproximadamente 2,30 GB observados en Releases cabría esa muestra, pero no hemos medido el total de Actions ni el crecimiento de la plataforma.
+
+Como escenario presupuestario, 100 GB mantenidos un mes completo serían aproximadamente 1,35 USD de almacenamiento tras los 10 GB incluidos; las operaciones, impuestos u otros servicios van aparte. No es una estimación de la factura real de DDD.
+
+## Apertura pública posterior
+
+Empezar con el archivo privado. Publicar únicamente una selección con metadatos y licencias resueltos; comprobar acceso desde una sesión sin credenciales. El catálogo puede ser JSON estático y Zensical puede enlazarlo. No hace falta montar CKAN o una API de consulta para este primer hito.
+
+[Inicio R2](https://developers.cloudflare.com/r2/get-started/) · [Autenticación S3](https://developers.cloudflare.com/r2/api/tokens/) · [Bucket locks](https://developers.cloudflare.com/r2/buckets/bucket-locks/) · [Tarifas](https://developers.cloudflare.com/r2/pricing/)
+
+*Versión 1.0.0 · 2026-11-03 · Archivo nuevo.*

diff --git a/legacy/documentacion_publica/docs/metodo_pre_t423_20261119.md b/legacy/documentacion_publica/docs/metodo_pre_t423_20261119.md
@@ -1,0 +1,34 @@
+# Método: módulos M01–M08
+
+Revisión estructural sobre el commit `11f0ba2b775a889f2316e31ebdbd859cbc50ab13`. Los nombres efectivos de archivos y parámetros se resuelven desde cada contrato territorial. Los ejemplos de Aragón en documentos antiguos no deben interpretarse como cardinalidades nacionales.
+
+| Módulo | Entradas principales | Productos que deben conservarse |
+|---|---|---|
+| M01 · Base territorial | Cartografía, población, contrato; comarcas opcionales | Secciones con población y geometría; informe de preparación |
+| M02 · Adyacencias | Geometría M01 y criterio topológico | Aristas JSONL completas |
+| M03 · Grafo | Secciones M01, aristas M02, política de conectividad | Grafo JSON con nodos/aristas e informe |
+| M04 · Solución inicial | Grafo, geometría, K, límites y semilla | Asignación inicial GeoJSON ZIP e informe |
+| M05 · Optimización | Asignación M04, grafo, estrategia, semillas y presupuesto | Asignación seleccionada, informe y portfolio cuando se ejecuta GerryChain |
+| M06 · Consolidación | Asignación final M05 y contrato de validación | Resumen, catálogo, composición por sección, GeoJSON de secciones/distritos y diagnóstico, según salidas configuradas |
+| M07 · Agregación electoral | Secciones M06 y contrato electoral con archivos verificados | CSV distrito/partido, resumen, reconciliación; geometría enriquecida opcional |
+| M08 · Integración | Distritos M06 y resumen electoral M07 | Producto territorial con atributos electorales |
+
+## Ejecución y conservación
+
+La 00 organiza preparación territorial, generación, preparación electoral, incorporación y publicación opcional. No debe confundirse esa secuencia operativa con la numeración de los ocho módulos computacionales.
+
+El workflow territorial copia la caché, el directorio de ejecución y el paquete de fuentes en checkpoints acumulados. Esto facilita la reanudación, pero duplica datos entre módulos. Los checkpoints de módulo auditados declaran 14 días de retención.
+
+## Qué hace ya GerryChain
+
+`materialise_portfolio()` en el motor de estrategia escribe un GeoJSON ZIP por semilla y un `portfolio.json` con hash, semilla, ranking y selección. El portfolio viaja en la caché del checkpoint. Solo el candidato seleccionado continúa normalmente a M06.
+
+La cadena de ensembles `06 Escenarios y Ensembles` tiene además su propio empaquetado y Releases borrador. Ambos circuitos deben distinguirse al catalogar resultados. La presencia del código de portfolio no prueba que una ejecución histórica concreta lo conservara: hay que comprobar sus bytes.
+
+## Evidencia canónica
+
+- [Módulos y código](https://github.com/jfmurciego/DiputadodeDistrito/tree/11f0ba2b775a889f2316e31ebdbd859cbc50ab13/modulos)
+- [Workflow territorial](https://github.com/jfmurciego/DiputadodeDistrito/blob/11f0ba2b775a889f2316e31ebdbd859cbc50ab13/.github/workflows/_reutilizable-generacion-territorial.yml#L595)
+- [Materialización de portfolio](https://github.com/jfmurciego/DiputadodeDistrito/blob/11f0ba2b775a889f2316e31ebdbd859cbc50ab13/ddd_core/m05_gerrychain_strategy.py#L1021)
+
+*Versión 1.0.0 · 2026-11-03 · Archivo nuevo.*

diff --git a/documentacion_publica/docs/archivo-r2.md b/documentacion_publica/docs/archivo-r2.md
@@ -25,7 +25,7 @@ Una clave por hash evita sobrescrituras accidentales por nombre, pero no constit
 
 ## Contrato de archivado para la siguiente PR
 
-El archivador debe ser idempotente y recibir los productos existentes, sin regenerarlos. No alterar los estados científicos de M06/M08. Emitir un recibo con tamaño, hash, clave, fecha, intento, resultado de comprobación y ubicación. Si un mismo hash apunta a bytes incompatibles, abortar.
+El archivador debe ser idempotente y recibir los productos existentes, sin regenerarlos. No alterar los estados científicos de P26 (producto certificado) ni de P32 (resultados por distrito). Emitir un recibo con tamaño, hash, clave, fecha, intento, resultado de comprobación y ubicación. Si un mismo hash apunta a bytes incompatibles, abortar.
 
 La puerta de conservación del archivo debe fallar si falta cualquier objeto obligatorio o no se ha verificado. Eso no debe reescribir un manifiesto histórico ni convertir una validación fallida en correcta. Los lectores del motor seguirán usando el circuito actual hasta incorporar y probar un adaptador de recuperación.
 
@@ -41,4 +41,4 @@ Empezar con el archivo privado. Publicar únicamente una selección con metadato
 
 [Inicio R2](https://developers.cloudflare.com/r2/get-started/) · [Autenticación S3](https://developers.cloudflare.com/r2/api/tokens/) · [Bucket locks](https://developers.cloudflare.com/r2/buckets/bucket-locks/) · [Tarifas](https://developers.cloudflare.com/r2/pricing/)
 
-*Versión 1.0.0 · 2026-11-03 · Archivo nuevo.*
+*Versión 1.1.0 · 2026-11-19 · T-423: nomenclatura P de D-165 en el texto. Anterior: `legacy/documentacion_publica/docs/archivo-r2_pre_t423_20261119.md`.*
